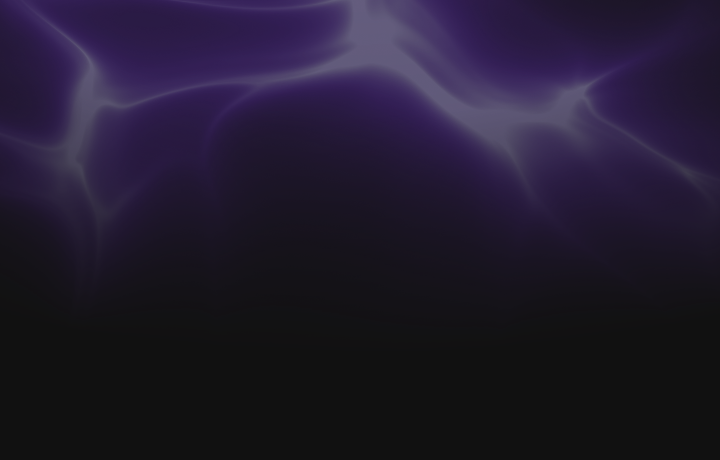
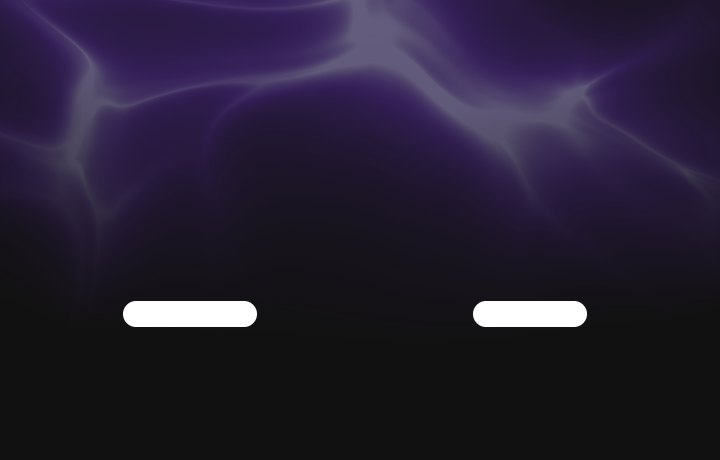
fix: the installer window's labels sit on white badges
Finder draws icon names in black, which vanished on the dark DMG
background. The background now carries a white pill under each name,
84 px below the icon centers set in tauri.conf.json.

Changed region(s): [[0.1528, 0.6391, 0.3667, 0.7304], [0.6417, 0.6391, 0.825, 0.7304]]

diff --git a/src-tauri/assets/dmg/background.html b/src-tauri/assets/dmg/background.html
@@ -26,10 +26,28 @@
         transparent 92%
       );
     }
+    .label {
+      position: absolute;
+      top: 314px;
+      height: 26px;
+      background: #fff;
+      border-radius: 13px;
+      transform: translate(-50%, -50%);
+    }
+    #app-label {
+      left: 190px;
+      width: 134px;
+    }
+    #applications-label {
+      left: 530px;
+      width: 114px;
+    }
     </style>
   </head>
   <body>
     <div aria-hidden="true" id="shader"></div>
+    <div aria-hidden="true" class="label" id="app-label"></div>
+    <div aria-hidden="true" class="label" id="applications-label"></div>
     <script src="./background.js" type="module"></script>
   </body>
 </html>

diff --git a/src-tauri/assets/dmg/README.md b/src-tauri/assets/dmg/README.md
@@ -9,6 +9,14 @@ sidebar in `app/globals.css`. Animation is frozen at frame 120, speed 0.
 Finder displays the PNG behind the real application and Applications icons.
 The image is committed, so release builds do not need a browser or WebGL.
 
+Finder draws the icon names in black at 16 px, which disappears on the dark
+background, so the image carries a white pill under each name. Finder centers
+a name 84 px below its icon's center: the pills sit at `y = 314` under the
+`appPosition` and `applicationFolderPosition` x values, 134 px wide for
+"Remocn Studio" and 114 px for "Applications". Move them together with the
+icon positions in `src-tauri/tauri.conf.json`, and widen the app pill if the
+product name changes.
+
 To regenerate from the repository root on macOS with Google Chrome installed:
 
 ```sh

diff --git a/.changeset/dmg-labels-on-white.md b/.changeset/dmg-labels-on-white.md
@@ -1,0 +1,5 @@
+---
+"remocn-studio": patch
+---
+
+The installer window's labels are readable again. "Remocn Studio" and "Applications" were black text on the dark background; each name now sits on a white badge.
